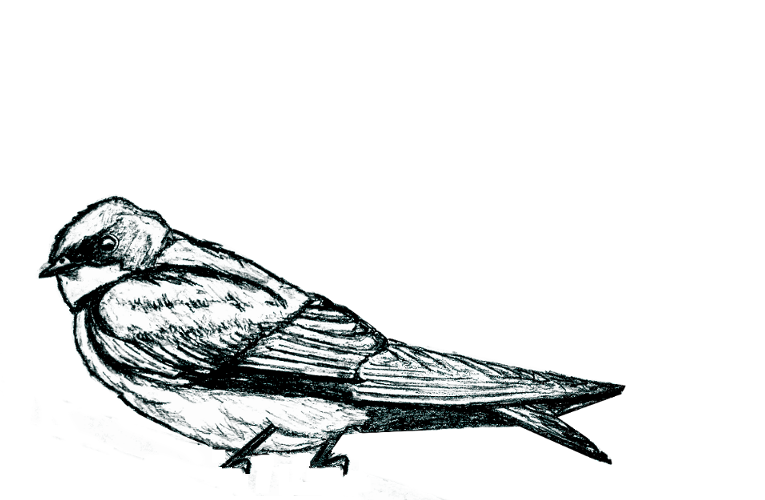
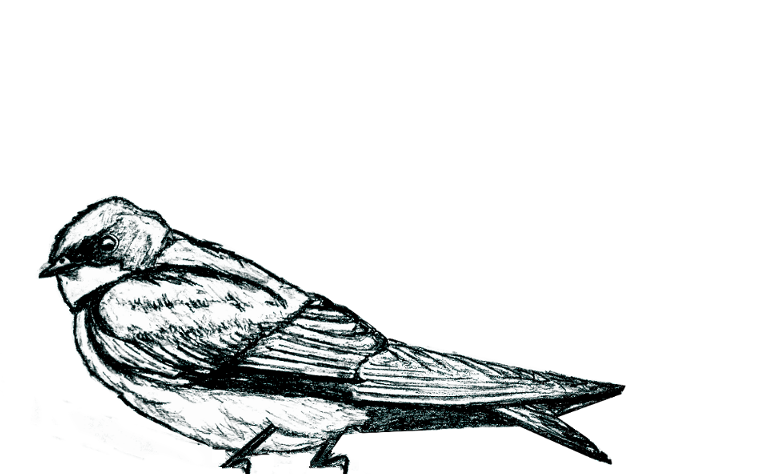
responsive pajarito

Changed region(s): [[0.0301, 0.384, 0.8128, 1.0]]

diff --git a/style.css b/style.css
@@ -76,6 +76,7 @@ header {
 
 nav {
      position: relative;
+       z-index: 1;
 }
 
 footer {
@@ -151,13 +152,13 @@ font-size: 18px;
 
 }
 
-
-@media screen and (min-width: 640px)
+/* tablets y landscape */
+@media screen and (min-width: 500px)
 {
 
   .pajarito {
     position: absolute;
-    bottom:  0px;
+    bottom:  20px;
     left: 10px;
   }
 
@@ -166,8 +167,8 @@ font-size: 18px;
   }
   .hi {
     position: fixed;
-    bottom: 550px;
-    right: 100px;
+    left: 50%;
+    top: 30%;
   }
 
   main {
@@ -276,14 +277,15 @@ color: white;
 background-color: #BD0048;
 }
 
-@media screen and (max-width: 400px)
+/* smartphones */
+@media screen and (max-width: 500px)
 {
   footer {
     height: 50px;
   }
   .pajarito {
     position: absolute;
-    bottom: 28px;
+    bottom: 42px;
   }
 
   .pajarito img{
@@ -291,17 +293,19 @@ background-color: #BD0048;
 
   }
   .hi {
-    position: fixed;
-    bottom: 350px;
-    right: 50px;
+    position: absolute;
+    left:30%;
+    top:25%;
+    z-index: auto;
   }
 }
 
-@media screen and (min-width: 1000px) {
+/* desktop */
+@media screen and (min-width: 800px) {
 
   .pajarito {
-    position: absolute;
-    bottom:  -7px;
+    position: fixed;
+    bottom: 18px;
     left: 10px;
   }
 
@@ -310,11 +314,11 @@ background-color: #BD0048;
   }
 
   .hi {
-    position: fixed;
-    bottom: 350px;
-    right: 400px;
-
+    position: absolute;
+    left: 50%;
+    bottom: 50%;
   }
+
     .aboutme {
       display: flex;
       flex-direction: row;

diff --git a/index.html b/index.html
@@ -34,7 +34,7 @@
     </header>
     <main>
       <div class="hi">
-        <img src="hi.png" alt="">
+        <img src="hi.png" class="hi-peq" alt="">
       </div>
       <div class="pajarito">
         <img src="pajaritoc.png" alt="">
